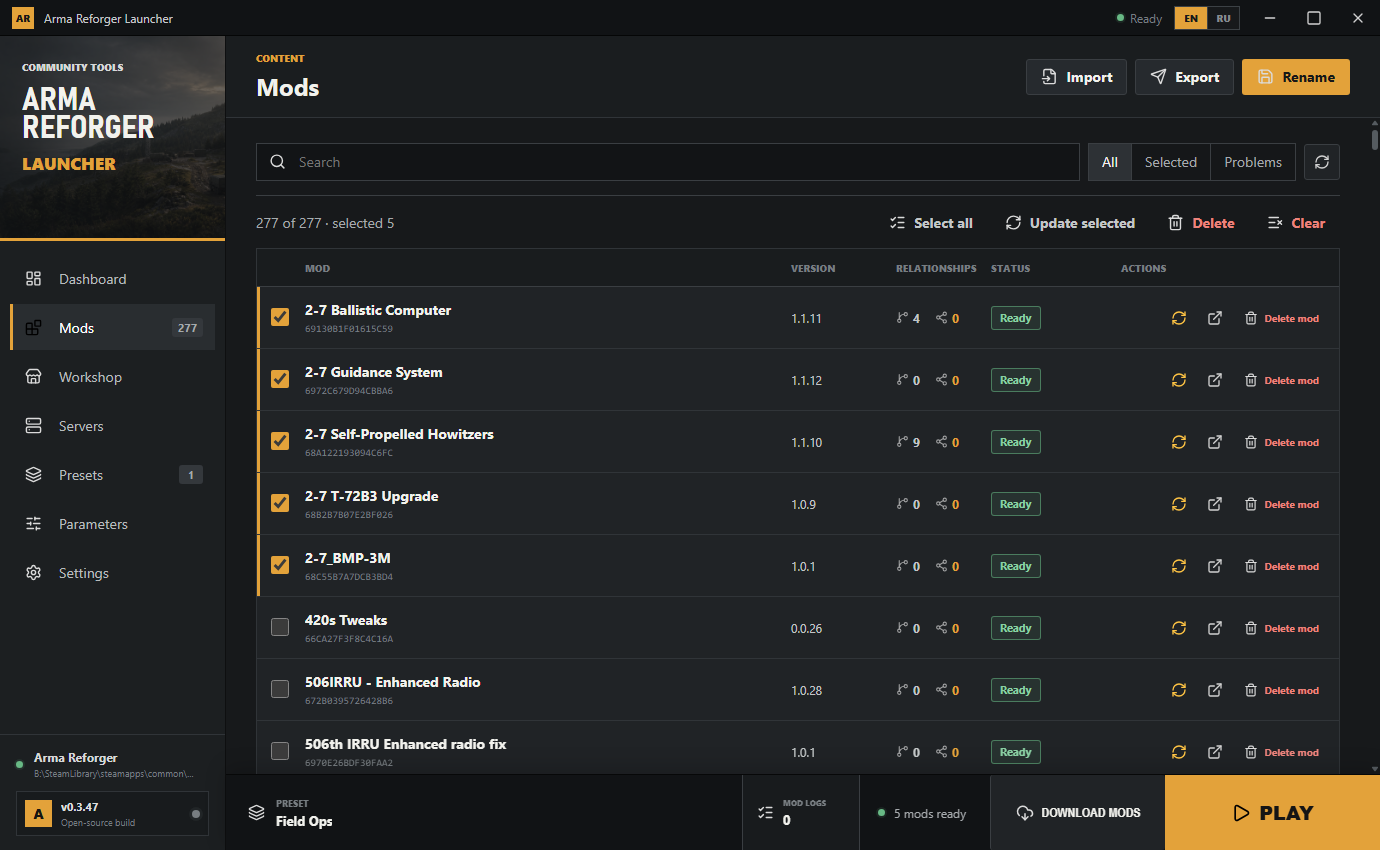
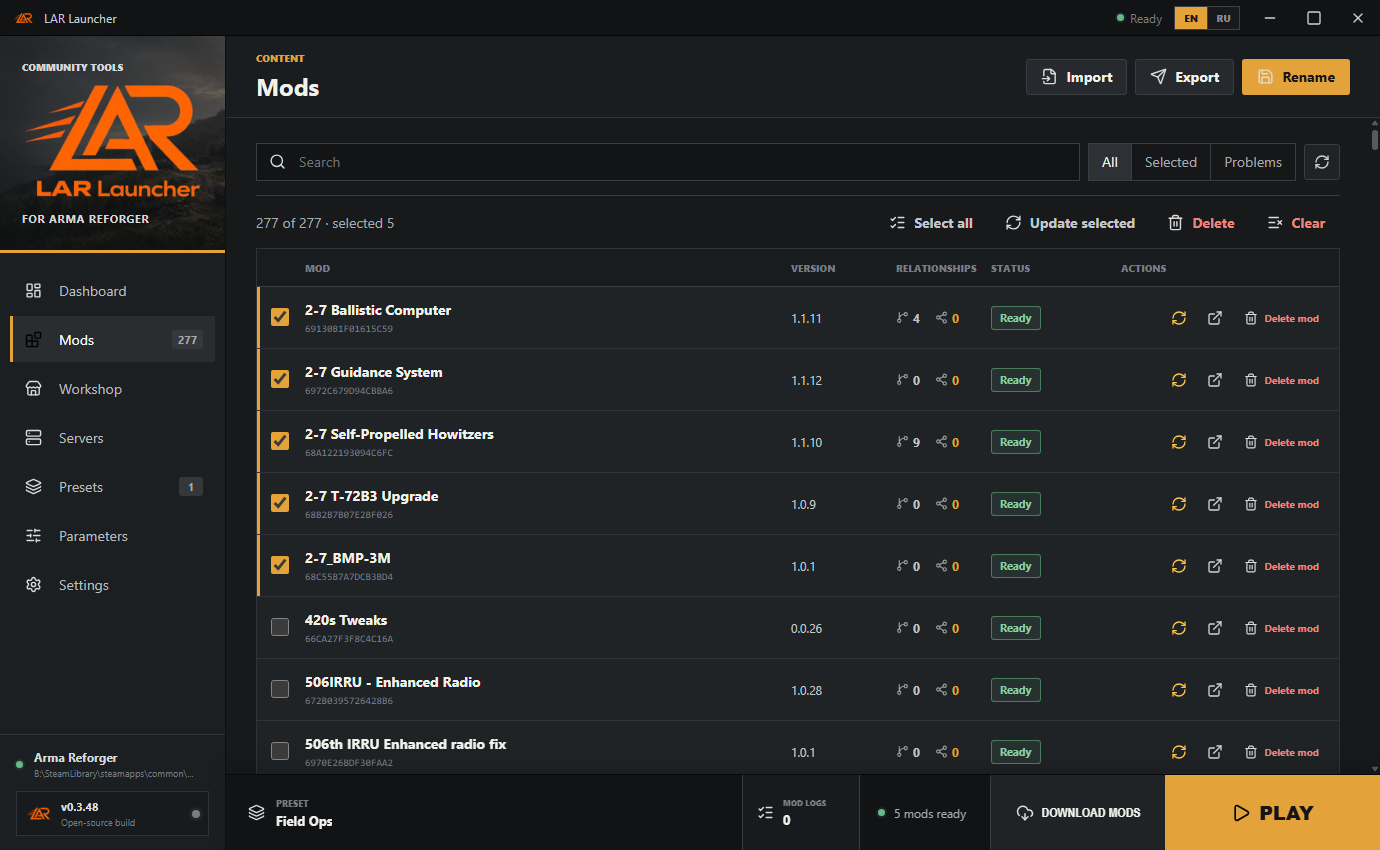
Publish LAR Launcher 0.3.48 with transparent branding and downloads

diff --git a/public/index.html b/public/index.html
@@ -3,27 +3,27 @@
 <head>
   <meta charset="utf-8">
   <meta name="viewport" content="width=device-width, initial-scale=1">
-  <title>ArmaLauncher — Launcher for Arma Reforger</title>
-  <meta name="description" content="Download ArmaLauncher for Windows and Linux. Browse Arma Reforger servers, import JSON mod presets, check installed mods and launch the game with your selected mod set.">
+  <title>LAR Launcher — Launcher for Arma Reforger</title>
+  <meta name="description" content="Download LAR Launcher for Windows and Linux. Browse Arma Reforger servers, import JSON mod presets, check installed mods and launch the game with your selected mod set.">
   <meta name="theme-color" content="#111415">
   <meta property="og:type" content="website">
-  <meta property="og:title" content="ArmaLauncher — Launcher for Arma Reforger">
-  <meta property="og:description" content="Download ArmaLauncher for Windows and Linux. Browse Arma Reforger servers, import JSON mod presets, check installed mods and launch the game with your selected mod set.">
-  <meta property="og:site_name" content="ArmaLauncher">
+  <meta property="og:title" content="LAR Launcher — Launcher for Arma Reforger">
+  <meta property="og:description" content="Download LAR Launcher for Windows and Linux. Browse Arma Reforger servers, import JSON mod presets, check installed mods and launch the game with your selected mod set.">
+  <meta property="og:site_name" content="LAR Launcher">
   <meta property="og:url" content="https://armalauncher.net/">
-  <meta property="og:image" content="https://armalauncher.net/assets/app-icon-512.png?v=classic20260909v47">
+  <meta property="og:image" content="https://armalauncher.net/assets/app-icon-512.png?v=lar20260913v48">
   <meta property="og:image:width" content="512">
   <meta property="og:image:height" content="512">
-  <meta property="og:image:alt" content="ArmaLauncher logo">
+  <meta property="og:image:alt" content="LAR Launcher logo">
   <meta name="twitter:card" content="summary">
-  <meta name="twitter:title" content="ArmaLauncher — Launcher for Arma Reforger">
-  <meta name="twitter:description" content="Download ArmaLauncher for Windows and Linux. Browse Arma Reforger servers, import JSON mod presets, check installed mods and launch the game with your selected mod set.">
-  <meta name="twitter:image" content="https://armalauncher.net/assets/app-icon-512.png?v=classic20260909v47">
-  <meta name="twitter:image:alt" content="ArmaLauncher logo">
+  <meta name="twitter:title" content="LAR Launcher — Launcher for Arma Reforger">
+  <meta name="twitter:description" content="Download LAR Launcher for Windows and Linux. Browse Arma Reforger servers, import JSON mod presets, check installed mods and launch the game with your selected mod set.">
+  <meta name="twitter:image" content="https://armalauncher.net/assets/app-icon-512.png?v=lar20260913v48">
+  <meta name="twitter:image:alt" content="LAR Launcher logo">
   <link rel="canonical" href="https://armalauncher.net/">
-  <link rel="icon" href="/assets/app-icon-192.png?v=classic20260909v47" type="image/png" sizes="192x192">
-  <link rel="apple-touch-icon" href="/assets/app-icon-192.png?v=classic20260909v47">
-  <link rel="manifest" href="/site.webmanifest?v=classic20260909v47">
+  <link rel="icon" href="/assets/app-icon-192.png?v=lar20260913v48" type="image/png" sizes="192x192">
+  <link rel="apple-touch-icon" href="/assets/app-icon-192.png?v=lar20260913v48">
+  <link rel="manifest" href="/site.webmanifest?v=lar20260913v48">
   <link rel="preload" href="/assets/hero-field.webp" as="image" type="image/webp" fetchpriority="high">
   <link rel="stylesheet" href="/styles.css?v=7b7c2b8bead0">
   <script src="/app.js?v=6e8617e48d18" defer></script>
@@ -34,20 +34,20 @@
       {
         "@type": "WebSite",
         "@id": "https://armalauncher.net/#website",
-        "name": "ArmaLauncher",
-        "alternateName": ["Arma Launcher", "Arma Reforger Launcher"],
+        "name": "LAR Launcher",
+        "alternateName": ["LAR", "LAR Launcher"],
         "url": "https://armalauncher.net/"
       },
       {
         "@type": "SoftwareApplication",
         "@id": "https://armalauncher.net/#application",
-        "name": "ArmaLauncher",
+        "name": "LAR Launcher",
         "url": "https://armalauncher.net/",
         "description": "A community launcher for Arma Reforger with server browsing, JSON mod presets and installed mod checks.",
         "applicationCategory": "GameApplication",
         "operatingSystem": "Windows 10/11 x64; Linux x64 (Ubuntu / Linux Mint)",
         "downloadUrl": "https://armalauncher.net/#download",
-        "image": "https://armalauncher.net/assets/app-icon-512.png?v=classic20260909v47"
+        "image": "https://armalauncher.net/assets/app-icon-512.png?v=lar20260913v48"
       }
     ]
   }
@@ -55,9 +55,9 @@
 </head>
 <body>
   <header class="site-header" id="siteHeader">
-    <a class="brand" href="#top" aria-label="ArmaLauncher — home">
-      <img src="/assets/app-icon-192.png?v=classic20260909v47" alt="" width="42" height="42">
-      <span><b>ArmaLauncher</b><small>FOR ARMA REFORGER</small></span>
+    <a class="brand" href="#top" aria-label="LAR Launcher — home">
+      <img src="/assets/app-icon-192.png?v=lar20260913v48" alt="" width="42" height="42">
+      <span><b>LAR Launcher</b><small>FOR ARMA REFORGER</small></span>
     </a>
 
     <nav class="main-nav" id="mainNav" aria-label="Main navigation">
@@ -97,7 +97,7 @@
 
       <div class="container hero-content">
         <p class="eyebrow reveal">ARMALAUNCHER.NET / DESKTOP CLIENT</p>
-        <h1>ArmaLauncher</h1>
+        <h1>LAR Launcher</h1>
         <p class="hero-lead">A launcher for Arma Reforger</p>
         <p class="hero-description">Browse servers, manage your mod presets and launch Arma Reforger with the right mod set.</p>
         <div class="hero-actions reveal" data-reveal-delay="3">
@@ -113,9 +113,9 @@
           </a>
         </div>
         <div class="hero-meta reveal" data-reveal-delay="4" aria-label="Release information">
-          <span>Version <b data-release-version>0.3.47</b></span>
+          <span>Version <b data-release-version>0.3.48</b></span>
           <span>Windows / Linux · x64</span>
-          <span><b data-release-size="setup">81.1 MB</b></span>
+          <span><b data-release-size="setup">81.0 MB</b></span>
         </div>
       </div>
 
@@ -126,12 +126,12 @@
         <header class="section-header reveal">
           <p class="eyebrow">01 / INTERFACE</p>
           <h2>Launcher interface</h2>
-          <p>ArmaLauncher brings the server browser, Workshop and installed mods into one desktop app. Keep a preset for each server or group so you can check your mod list before joining a session.</p>
+          <p>LAR Launcher brings the server browser, Workshop and installed mods into one desktop app. Keep a preset for each server or group so you can check your mod list before joining a session.</p>
         </header>
 
         <figure class="launcher-figure launcher-gallery reveal" id="launcherGallery" aria-label="Launcher screenshot gallery" aria-roledescription="carousel">
           <div class="launcher-gallery-stage" tabindex="0">
-            <img id="launcherGalleryImage" src="/assets/launcher-workshop.webp?v=classic20260909v47" alt="ArmaLauncher Workshop showing available mods" width="1380" height="850" loading="lazy" decoding="async">
+            <img id="launcherGalleryImage" src="/assets/launcher-workshop.webp?v=lar20260913v48" alt="LAR Launcher Workshop showing available mods" width="1380" height="850" loading="lazy" decoding="async">
             <button class="gallery-arrow gallery-arrow-previous" id="galleryPrevious" type="button" title="Previous screenshot" aria-label="Previous screenshot">
               <img src="/assets/icons/chevron-left.svg" alt="" width="24" height="24">
             </button>
@@ -140,7 +140,7 @@
             </button>
           </div>
           <figcaption>
-            <span id="launcherGalleryCaption">ArmaLauncher / WORKSHOP</span>
+            <span id="launcherGalleryCaption">LAR Launcher / WORKSHOP</span>
             <span id="launcherGalleryCounter">01 / 03</span>
           </figcaption>
         </figure>
@@ -216,7 +216,7 @@
         <header class="download-heading reveal">
           <p class="eyebrow">04 / DOWNLOAD</p>
           <div class="download-heading-copy">
-            <h2>Download ArmaLauncher</h2>
+            <h2>Download LAR Launcher</h2>
             <p>Choose your system. Windows has an installer and a portable version. For Ubuntu and Linux Mint, use the DEB package or AppImage. Arma Reforger on Linux requires Steam and Proton.</p>
           </div>
           <div class="download-counter" id="downloadCounter">
@@ -237,7 +237,7 @@
               <p>Creates shortcuts and lets you choose the installation folder.</p>
             </div>
             <div class="release-info">
-              <span data-release-size="setup">81.1 MB</span>
+              <span data-release-size="setup">81.0 MB</span>
               <span>EXE / x64</span>
             </div>
             <a class="button dark" data-download="setup" href="/get/setup">
@@ -268,7 +268,7 @@
               <h3>Linux installer</h3>
               <p>Installs the launcher and adds it to your applications menu.</p>
             </div>
-            <div class="release-info"><span data-release-size="deb">88.9 MB</span><span>DEB / x64</span></div>
+            <div class="release-info"><span data-release-size="deb">88.8 MB</span><span>DEB / x64</span></div>
             <a class="button dark" data-download="deb" href="/get/deb">
               <img src="/assets/icons/download.svg" alt="" width="24" height="24">Download
             </a>
@@ -280,7 +280,7 @@
               <h3>AppImage</h3>
               <p>Make the file executable to run it. Requires FUSE 2.</p>
             </div>
-            <div class="release-info"><span data-release-size="appimage">113.2 MB</span><span>AppImage / x64</span></div>
+            <div class="release-info"><span data-release-size="appimage">113.1 MB</span><span>AppImage / x64</span></div>
             <a class="button outline-dark" data-download="appimage" href="/get/appimage">
               <img src="/assets/icons/download.svg" alt="" width="24" height="24">Download
             </a>
@@ -302,7 +302,7 @@
             <img src="/assets/icons/badge-check.svg" alt="" width="24" height="24">
             <span>Verify the Windows installer with SHA-256</span>
           </div>
[2 lines of base64/hex data omitted]
             <img src="/assets/icons/copy.svg" alt="" width="24" height="24">Copy Windows installer hash
           </button>
         </div>
@@ -314,8 +314,8 @@
   <footer class="site-footer">
     <div class="container footer-grid">
       <div class="footer-brand">
-        <img src="/assets/app-icon-192.png?v=classic20260909v47" alt="" width="54" height="54" loading="lazy" decoding="async">
-        <div><b>ArmaLauncher</b><span>Community project / v<span data-release-version>0.3.47</span></span></div>
+        <img src="/assets/app-icon-192.png?v=lar20260913v48" alt="" width="54" height="54" loading="lazy" decoding="async">
+        <div><b>LAR Launcher</b><span>Community project / v<span data-release-version>0.3.48</span></span></div>
       </div>
       <div class="footer-links">
         <a href="#product">Interface</a>

diff --git a/public/app.js b/public/app.js
@@ -44,7 +44,7 @@ const dynamicText = {
 
 const staticRussian = {
   'Language': 'Язык',
-  'ArmaLauncher — home': 'ArmaLauncher — на главную',
+  'LAR Launcher — home': 'LAR Launcher — на главную',
   'Main navigation': 'Основная навигация',
   'Interface': 'Интерфейс',
   'How it works': 'Как работает',
@@ -57,7 +57,7 @@ const staticRussian = {
   'Control': 'Контроль',
   'A launcher for Arma Reforger': 'Лаунчер для Arma Reforger',
   'Browse servers, manage your mod presets and launch Arma Reforger with the right mod set.': 'Выбирай серверы, управляй пресетами и запускай Arma Reforger с нужным набором модов.',
-  'ArmaLauncher brings the server browser, Workshop and installed mods into one desktop app. Keep a preset for each server or group so you can check your mod list before joining a session.': 'ArmaLauncher объединяет список серверов, Workshop и установленные моды в одном приложении. Сохраняй пресеты для разных серверов и групп, чтобы проверять набор модов перед игрой.',
+  'LAR Launcher brings the server browser, Workshop and installed mods into one desktop app. Keep a preset for each server or group so you can check your mod list before joining a session.': 'LAR Launcher объединяет список серверов, Workshop и установленные моды в одном приложении. Сохраняй пресеты для разных серверов и групп, чтобы проверять набор модов перед игрой.',
   'Download for Windows': 'Скачать для Windows',
   'Download for Linux': 'Скачать для Linux',
   'Choose your system. Windows has an installer and a portable version. For Ubuntu and Linux Mint, use the DEB package or AppImage. Arma Reforger on Linux requires Steam and Proton.': 'Выбери свою систему. Для Windows есть установщик и portable-версия. Для Ubuntu и Linux Mint — DEB-пакет и AppImage. Для Arma Reforger на Linux нужны Steam и Proton.',
@@ -96,8 +96,8 @@ const staticRussian = {
   'Steam, Workshop, and profile folders are found automatically.': 'Папки Steam, Workshop и профиля определяются автоматически.',
   'Repair tools': 'Восстановление',
   'Reset launcher data and scan the library again when needed.': 'При необходимости можно сбросить данные лаунчера и проверить библиотеку заново.',
-  'Download ArmaLauncher': 'Скачать ArmaLauncher',
-  'Get ArmaLauncher for Arma Reforger on Windows 10/11 x64. Choose the installer for shortcuts and a setup wizard, or the portable EXE to run it from any folder. Then open your JSON preset, check the mods and launch the game.': 'Скачай ArmaLauncher для Arma Reforger на Windows 10/11 x64. Установщик создаст ярлыки и поможет выбрать папку, а portable-версия запускается из любого каталога. Затем открой JSON-пресет, проверь моды и запусти игру.',
+  'Download LAR Launcher': 'Скачать LAR Launcher',
+  'Get LAR Launcher for Arma Reforger on Windows 10/11 x64. Choose the installer for shortcuts and a setup wizard, or the portable EXE to run it from any folder. Then open your JSON preset, check the mods and launch the game.': 'Скачай LAR Launcher для Arma Reforger на Windows 10/11 x64. Установщик создаст ярлыки и поможет выбрать папку, а portable-версия запускается из любого каталога. Затем открой JSON-пресет, проверь моды и запусти игру.',
   'Standard installation': 'Обычная установка',
   'Windows installer': 'Установщик Windows',
   'Creates shortcuts and lets you choose the installation folder.': 'Создаёт ярлыки и позволяет выбрать папку установки.',
@@ -114,22 +114,22 @@ let language = localStorage.getItem('armaLauncherSiteLanguage') === 'ru' ? 'ru' 
 
 const gallerySlides = [
   {
-    image: '/assets/launcher-workshop.webp?v=classic20260909v47',
+    image: '/assets/launcher-workshop.webp?v=lar20260913v48',
     width: 1380, height: 850,
     title: { en: 'Workshop', ru: 'Мастерская' },
-    alt: { en: 'ArmaLauncher Workshop showing available mods', ru: 'Доступные моды в мастерской ArmaLauncher' }
+    alt: { en: 'LAR Launcher Workshop showing available mods', ru: 'Доступные моды в мастерской LAR Launcher' }
   },
   {
-    image: '/assets/launcher-servers.webp?v=classic20260909v47',
+    image: '/assets/launcher-servers.webp?v=lar20260913v48',
     width: 1380, height: 850,
     title: { en: 'Servers', ru: 'Серверы' },
-    alt: { en: 'ArmaLauncher server browser', ru: 'Список серверов ArmaLauncher' }
+    alt: { en: 'LAR Launcher server browser', ru: 'Список серверов LAR Launcher' }
   },
   {
-    image: '/assets/launcher-mods.webp?v=classic20260909v47',
+    image: '/assets/launcher-mods.webp?v=lar20260913v48',
     width: 1380, height: 850,
     title: { en: 'Mods', ru: 'Моды' },
-    alt: { en: 'ArmaLauncher installed mod library', ru: 'Установленные моды в ArmaLauncher' }
+    alt: { en: 'LAR Launcher installed mod library', ru: 'Установленные моды в LAR Launcher' }
   }
 ];
 let galleryIndex = 0;
@@ -175,11 +175,11 @@ function applyLanguage() {
 
   document.documentElement.lang = language;
   document.title = language === 'ru'
-    ? 'ArmaLauncher — лаунчер для Arma Reforger'
-    : 'ArmaLauncher — Launcher for Arma Reforger';
+    ? 'LAR Launcher — лаунчер для Arma Reforger'
+    : 'LAR Launcher — Launcher for Arma Reforger';
   $('meta[name="description"]').content = language === 'ru'
-    ? 'Скачай ArmaLauncher для Windows и Linux: выбирай серверы Arma Reforger, импортируй JSON-пресеты, проверяй моды и запускай игру с выбранным набором.'
-    : 'Download ArmaLauncher for Windows and Linux. Browse Arma Reforger servers, import JSON mod presets, check installed mods and launch the game with your selected mod set.';
+    ? 'Скачай LAR Launcher для Windows и Linux: выбирай серверы Arma Reforger, импортируй JSON-пресеты, проверяй моды и запускай игру с выбранным набором.'
+    : 'Download LAR Launcher for Windows and Linux. Browse Arma Reforger servers, import JSON mod presets, check installed mods and launch the game with your selected mod set.';
   for (const selector of ['meta[property="og:title"]', 'meta[name="twitter:title"]']) $(selector).content = document.title;
   for (const selector of ['meta[property="og:description"]', 'meta[name="twitter:description"]']) $(selector).content = $('meta[name="description"]').content;
   $$('[data-language]').forEach((button) => {
@@ -226,7 +226,7 @@ function renderLauncherGallery() {
   image.height = slide.height;
   image.src = slide.image;
   image.alt = slide.alt[language];
-  $('#launcherGalleryCaption').textContent = `ArmaLauncher / ${slide.title[language].toUpperCase()}`;
+  $('#launcherGalleryCaption').textContent = `LAR Launcher / ${slide.title[language].toUpperCase()}`;
   $('#launcherGalleryCounter').textContent = `${String(galleryIndex + 1).padStart(2, '0')} / ${String(gallerySlides.length).padStart(2, '0')}`;
 
   const previous = $('#galleryPrevious');

diff --git a/public/404.html b/public/404.html
@@ -3,14 +3,14 @@
 <head>
   <meta charset="utf-8">
   <meta name="viewport" content="width=device-width, initial-scale=1">
-  <title>Page not found — ArmaLauncher</title>
+  <title>Page not found — LAR Launcher</title>
   <meta name="robots" content="noindex">
-  <link rel="icon" href="/assets/app-icon-192.png?v=classic20260909v47" type="image/png">
+  <link rel="icon" href="/assets/app-icon-192.png?v=lar20260913v48" type="image/png">
   <link rel="stylesheet" href="/styles.css">
 </head>
 <body class="error-page">
   <main>
-    <img src="/assets/app-icon-192.png?v=classic20260909v47" alt="ArmaLauncher" width="72" height="72">
+    <img src="/assets/app-icon-192.png?v=lar20260913v48" alt="LAR Launcher" width="72" height="72">
     <p>ERROR / 404</p>
     <h1>Page not found.</h1>
     <a class="button primary" href="/">Return home</a>

diff --git a/public/styles.css b/public/styles.css
@@ -97,8 +97,9 @@ a {
 
 .brand img,
 .footer-brand > img {
-  object-fit: cover;
-  border: 1px solid rgba(227, 164, 56, 0.62);
+  object-fit: contain;
+  background: transparent;
+  border: 0;
 }
 
 .brand span {

diff --git a/README.md b/README.md
@@ -1,8 +1,8 @@
-# ArmaLauncher website
+# LAR Launcher website
 
-<img src="public/assets/app-icon-512.png" width="128" height="128" alt="Arma Reforger Launcher logo">
+<img src="public/assets/app-icon-512.png" width="128" height="128" alt="LAR Launcher logo">
 
-Source for the ArmaLauncher download website published at
+Source for the LAR Launcher download website published at
 `https://armalauncher.net` on Cloudflare Pages.
 
 The repository contains the website source and deployment helpers. Launcher
@@ -136,7 +136,7 @@ or authentication service in this website repository.
 
 The only indexable page is `/`. Downloads are part of that page at `/#download`,
 so the sitemap deliberately contains only the homepage. The HTML includes one
-ArmaLauncher H1, canonical URL, description, Open Graph, Twitter card and
+LAR Launcher H1, canonical URL, description, Open Graph, Twitter card and
 WebSite/SoftwareApplication JSON-LD. All are available without JavaScript.
 The EN/RU switch keeps the brand and primary URL consistent.
 
